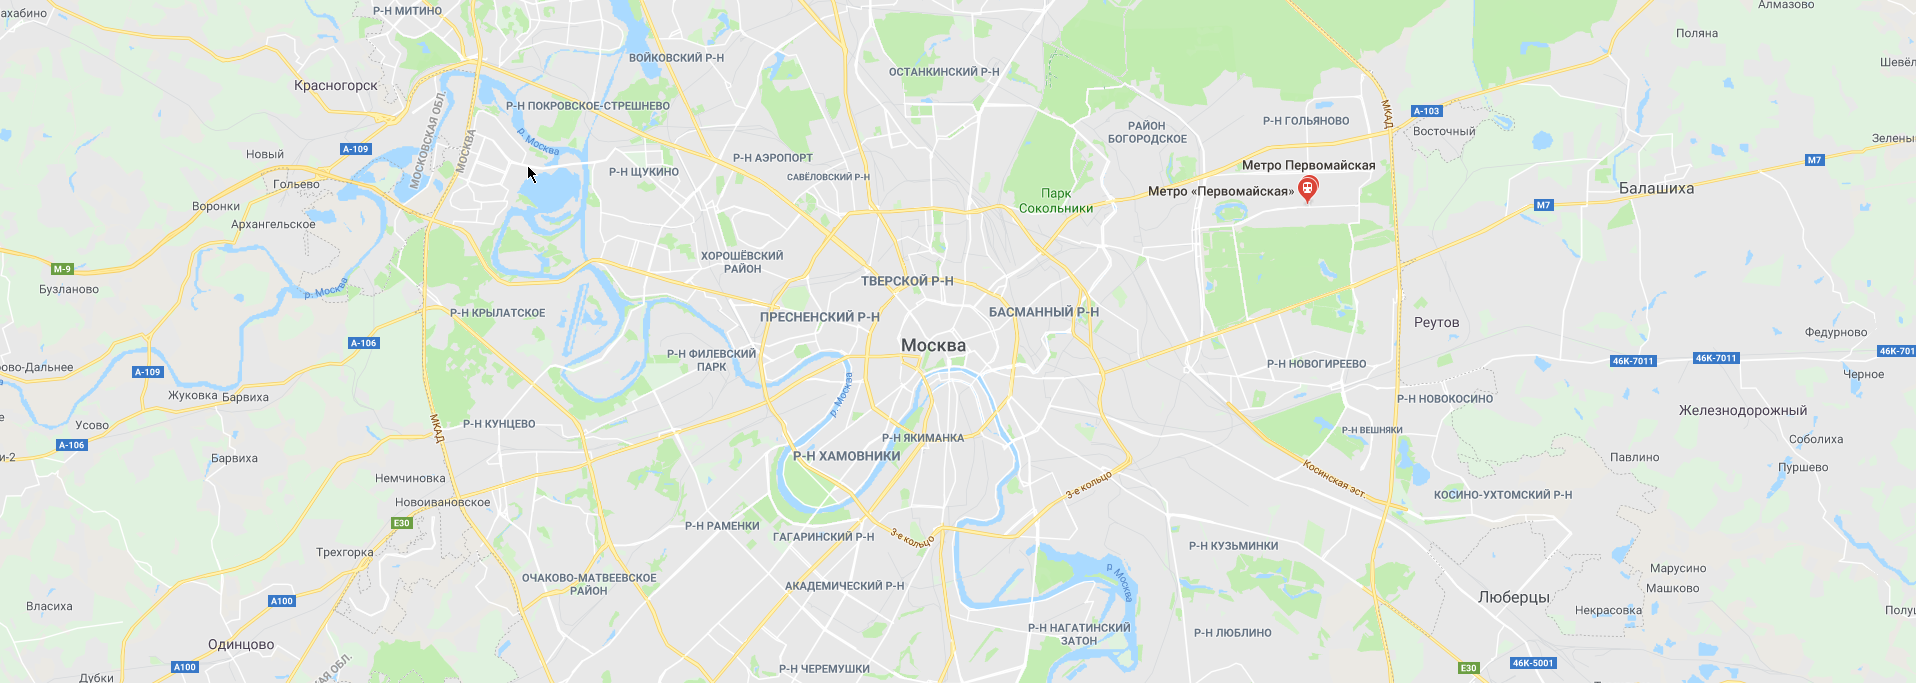
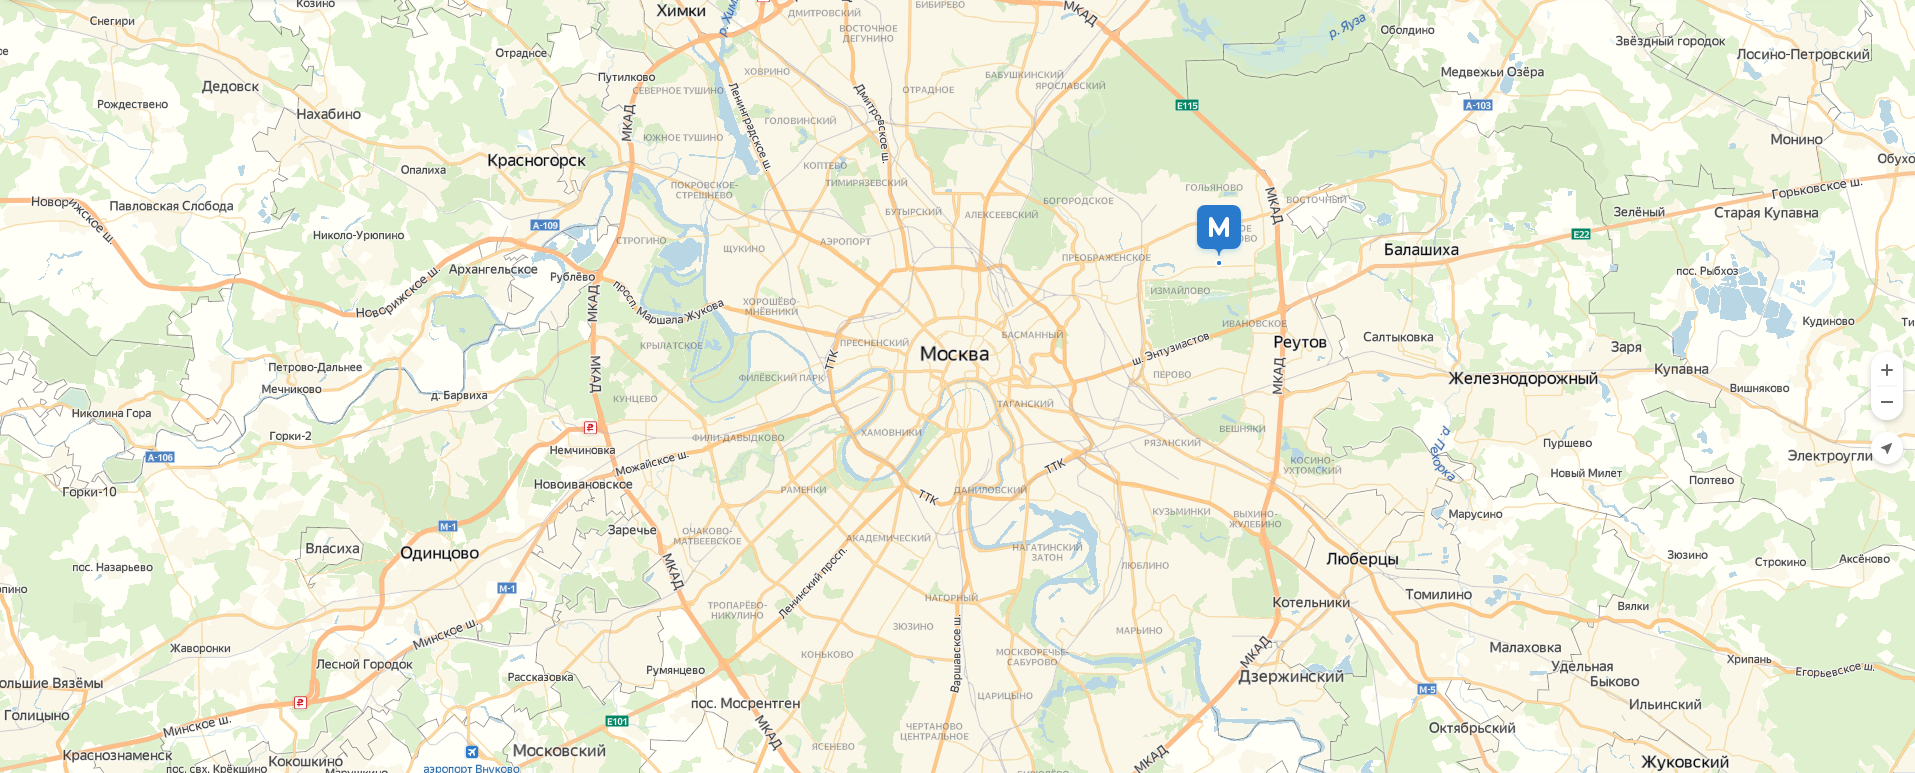
changed the map and the title

diff --git a/index.html b/index.html
@@ -160,12 +160,12 @@
                                     <div class="t001__title t-title t-title_xl t-animate"
                                         data-animate-style="fadeindown" data-animate-group="yes"
                                         style="color:#ffffff;font-size:65px;" field="title">
-                                        <h1 class="site-title">МАСТЕРСКАЯ НИТЬ</h1>
+                                        <h1 class="site-title">АТЕЛЬЕ-МАСТЕРСКАЯ</h1>
                                     </div>
                                     <div class="t001__descr t-descr t-descr_xl t001__descr_center t-animate"
                                         data-animate-style="fadeindown" data-animate-group="yes" style="color:#ffffff;"
                                         field="descr">
-                                        <h6 class="site-title-tagline">воплотим Ваши идеи в изделия</h6>
+                                        <h6 class="site-title-tagline">В ЦЕНТРЕ МОСКВЫ</h6>
                                     </div> <span class="space"></span>
                                 </div>
                             </div>
